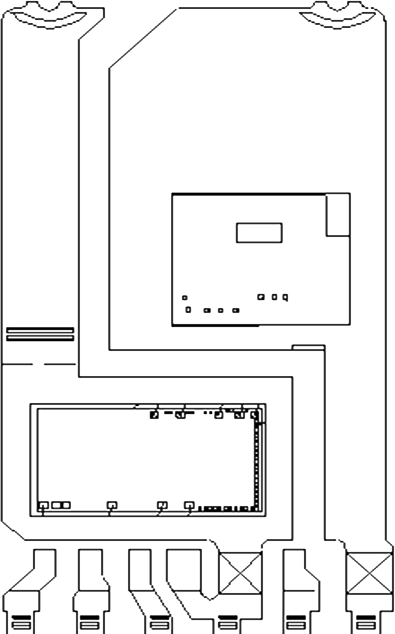
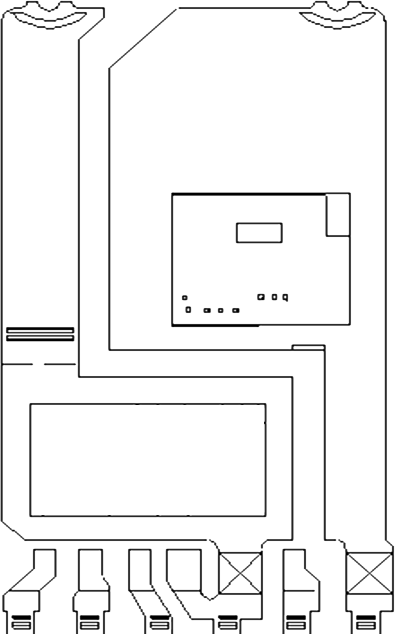
空洞图5GI6GI调整

Changed region(s): [[0.0911, 0.6293, 0.6684, 0.8091]]

diff --git a/src/views/ms/record/kongdongEchart.vue b/src/views/ms/record/kongdongEchart.vue
@@ -37,10 +37,10 @@
 			</button>
 		</div>
 		<div class="echartPanel">
-			<div :style="{width: '35%', height: '250px',marginLeft:'64%', marginTop:'30px'}" class="picPanel">
+			<div id="echAppLine" :style="{width: '60%', height: '300px',float:'left', marginLeft:'-4%'}"/>
+			<div :style="{width: imgUrlWidth, height: imgUrlHeight, marginTop:'30px',float:'left'}" class="picPanel">
 				<chipImg :img-url="imgUrl" :img-option="imgOption" :click-able="clickAble" @positionName="positionChange"/>
 			</div>
-			<div id="echAppLine" :style="{width: '70%', height: '300px',position:'relative',marginTop:'-250px', marginLeft:'-4%'}"/>
 		</div>
 		<el-form id="subEchart" class="form" label-width="90px" size="small">
 			<el-col :span="6">
@@ -56,7 +56,7 @@
 				<div id="echApp" :style="{width: '90%', height: '350px'}"/>
 			</div>
 			<div id="chartPanelRight">
-				<div id="echAppRight" :style="{width: '90%', height: '350px'}"/>
+				<div id="echAppRight" :style="{width: imgUrlWidth, height: imgUrlHeight}"/>
 			</div>
 		</div>
 	</div>
@@ -90,9 +90,11 @@ export default {
       clickAble: true,
       positionOptions: [],
       proNameOptions: [],
-      lineNoOptions: [{ 'lineNo': 'SMA' }, { 'lineNo': 'SX' }, { 'lineNo': 'SIM' }, { 'lineNo': '5GI' }, { 'lineNo': '6GI' }]
+      lineNoOptions: [{ 'lineNo': 'SMA' }, { 'lineNo': 'SX' }, { 'lineNo': 'SIM' }, { 'lineNo': '5GI' }, { 'lineNo': '6GI' }],
       // list:[{name:"T100",left:"40%",top:"30%",width:"50px",height:"60px",rotate:180,"checked":true,backgroundColor:"red",position:"relative"}],
       // picUrl:"11"
+      imgUrlWidth: '35%',
+      imgUrlHeight: '250px'
     }
   },
   mounted() {
@@ -117,7 +119,7 @@ export default {
       }
     },
     positionChange(pname) {
-      if (this.positionOptions.length > 0 && this.imgUrl !== '5GI' && this.imgUrl !== '6GI') {
+      if (this.positionOptions.length > 0 && this.imgUrl !== 'KD5GI' && this.imgUrl !== 'KD6GI') {
         this.chartParam.lineType = pname
         this.imgOption = this.imgUrl + pname
         this.searchClick()
@@ -134,26 +136,37 @@ export default {
         this.imgUrl = 'SX681'
         this.imgOption = ''
         this.chartParam.lineType = ''
+        this.imgUrlWidth = '35%'
+        this.imgUrlHeight = '250px'
       } else if (this.chartParam.productionName.indexOf('SX680') > -1) {
         this.imgUrl = 'SX680'
         this.imgOption = ''
         this.chartParam.lineType = ''
+        this.imgUrlWidth = '35%'
+        this.imgUrlHeight = '250px'
       } else if (this.chartParam.productionName.indexOf('SIM') > -1) {
         this.imgUrl = 'SIM'
         this.imgOption = ''
         this.chartParam.lineType = ''
+        this.imgUrlWidth = '35%'
+        this.imgUrlHeight = '250px'
       } else if (this.chartParam.productionName.indexOf('5GI') > -1) {
-        this.imgUrl = '5GI'
-        this.imgOption = ''
+        this.imgUrl = 'KD5GI'
         this.chartParam.lineType = ''
+        this.imgUrlWidth = '25%'
+        this.imgUrlHeight = '360px'
       } else if (this.chartParam.productionName.indexOf('6GI') > -1) {
-        this.imgUrl = '6GI'
+        this.imgUrl = 'KD6GI'
         this.imgOption = ''
         this.chartParam.lineType = ''
+        this.imgUrlWidth = '25%'
+        this.imgUrlHeight = '360px'
       } else if (this.chartParam.productionName.indexOf('SMA') > -1) {
         this.imgUrl = 'SMA'
         this.imgOption = ''
         this.chartParam.lineType = ''
+        this.imgUrlWidth = '35%'
+        this.imgUrlHeight = '250px'
       } else {
         this.imgUrl = ''
         this.imgOption = ''

diff --git a/src/views/tool/chipimg/chipimg.vue b/src/views/tool/chipimg/chipimg.vue
@@ -46,11 +46,22 @@
 			<div :class="imgOption==='5GIMIC'?'MIC_act':'sxMIC6_bg'" class="gi5_mic_position smaller" @click="positionClk('MIC')">MIC</div>
 			<div :class="imgOption==='5GIIGBT'?'MIC_act':'gi5IGBT_bg'" class="gi5_igbt_position smaller" @click="positionClk('IGBT')">IGBT</div>
 		</div>
+		<div v-show="imgUrl==='KD5GI'" class="gi5">
+			<div :class="imgOption==='5GIMIC'?'MIC_act':'sxMIC6_bg'" class="gi5_mic_position smaller opacity" @click="positionClk('MIC')">MIC</div>
+			<div :class="imgOption==='5GIIGBT'?'MIC_act':'gi5IGBT_bg'" class="gi5_igbt_position smaller" @click="positionClk('IGBT')">IGBT</div>
+		</div>
+
 		<div v-show="imgUrl==='6GI'" class="gi6">
 			<div :class="imgOption==='6GIIGBT'?'MIC_act':'gi5IGBT_bg'" class="gi6_igbt_position smaller" @click="positionClk('IGBT')">IGBT</div>
 			<div :class="imgOption==='6GIMIC'?'MIC_act':'sxMIC6_bg'" class="gi6_mic_position smaller" @click="positionClk('MIC')">MIC</div>
 			<div :class="imgOption==='6GIDIOD'?'MIC_act':'gi5DIOD_bg'" class="gi6_diod_position smaller" @click="positionClk('DIOD')">DIOD</div>
 			<div :class="imgOption==='6GIC'?'MIC_act':'gi5C_bg'" class="gi6_c_position smaller" @click="positionClk('C')">C</div>
+		</div>
+		<div v-show="imgUrl==='KD6GI'" class="gi6">
+			<div :class="imgOption==='6GIIGBT'?'MIC_act':'gi5IGBT_bg'" class="gi6_igbt_position smaller" @click="positionClk('IGBT')">IGBT</div>
+			<div :class="imgOption==='6GIMIC'?'MIC_act':'sxMIC6_bg'" class="gi6_mic_position smaller opacity" @click="positionClk('MIC')">MIC</div>
+			<div :class="imgOption==='6GIDIOD'?'MIC_act':'gi5DIOD_bg'" class="gi6_diod_position smaller opacity" @click="positionClk('DIOD')">DIOD</div>
+			<div :class="imgOption==='6GIC'?'MIC_act':'gi5C_bg'" class="gi6_c_position smaller opacity" @click="positionClk('C')">C</div>
 		</div>
 		<div v-show="imgUrl==='SMA'" class="sma">
 			<div :class="imgOption==='SMADI-1'?'DI_act':'DI270_bg'" class="smaDI1_a_position smaller" @click="positionClk('DI-1')">DI-1</div>
@@ -160,6 +171,8 @@ export default {
 	.gi6_mic_position{width:29%;height:32%;top: 56.8%;left: 46.4%;padding-top: 45px;}
 	.gi6_diod_position{width:32%;height:11%;top: 59.5%;left: 16%;padding-top: 8px;}
 	.gi6_c_position{width:28%;height:10%;top: 73.5%;left: 16.6%;padding-top: 8px;color:white}
+	.gi5_igbtselect{width:64%;height:30%;top: 26%;left: 34%;border:1px solid red;}
+	.gi5KD_mic_position{width:84%;height:25%;top: 60%;left: -4.4%;padding-top: 40px;opacity: 0.6;}
 
 	.smaDI1_a_position{width:6%;height:15%;top: 24%;left: 9.6%;}
 	.smaDI1_b_position{width:6%;height:15%;top: 39%;left: 9.6%;}
@@ -204,4 +217,7 @@ export default {
 	/**旋转角度,尽量不要转特殊角度，容易图片不清晰*/
 	.rotate180{transform:rotate(180deg);}
 	.rotate180 div{width:100%;height:100%;}
+
+	/**透明度*/
+	.opacity{opacity:0.3;}
 </style>
